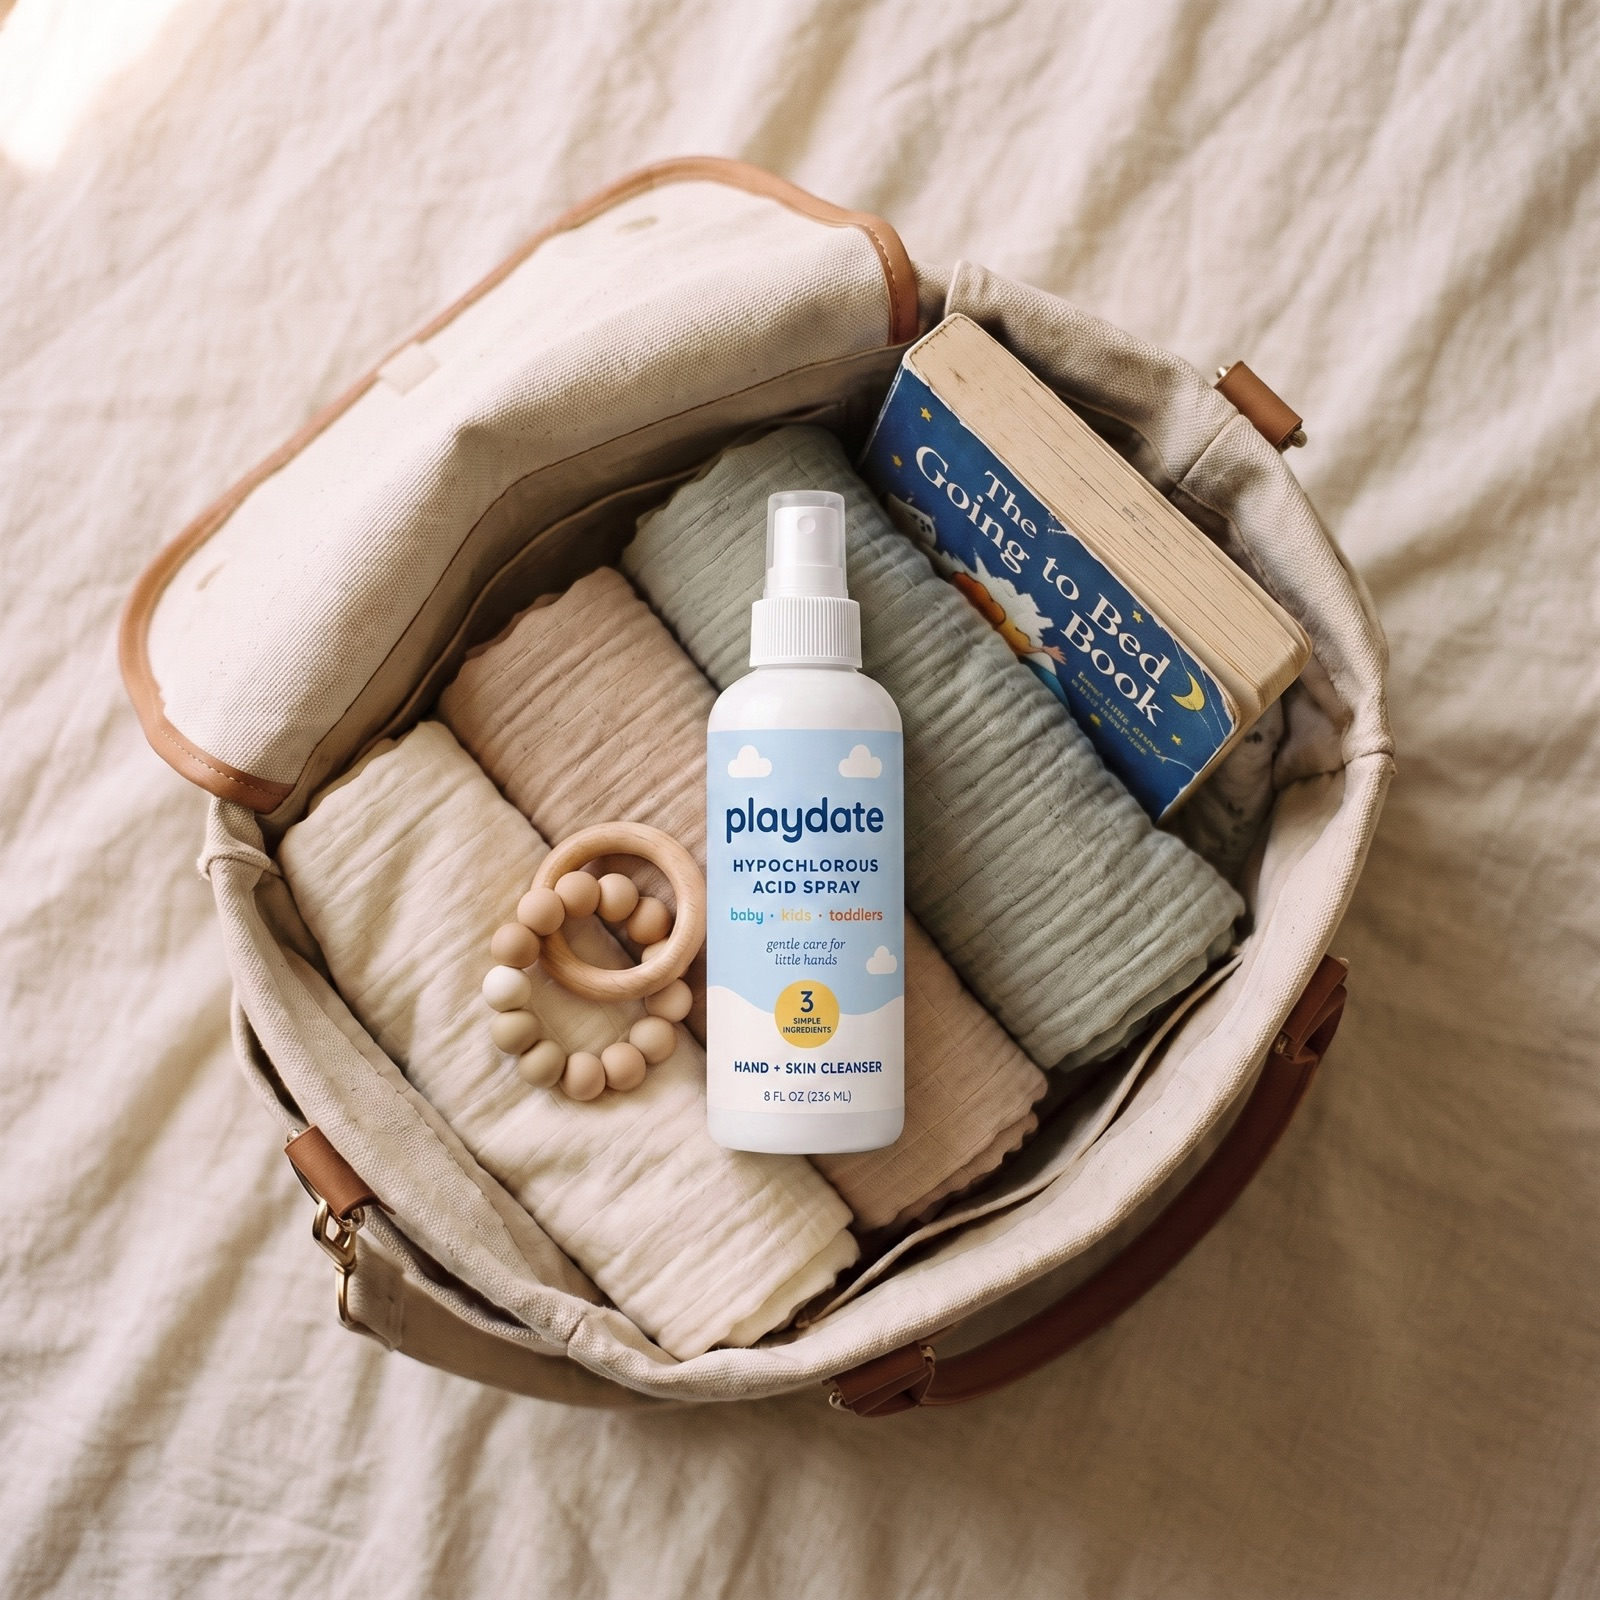
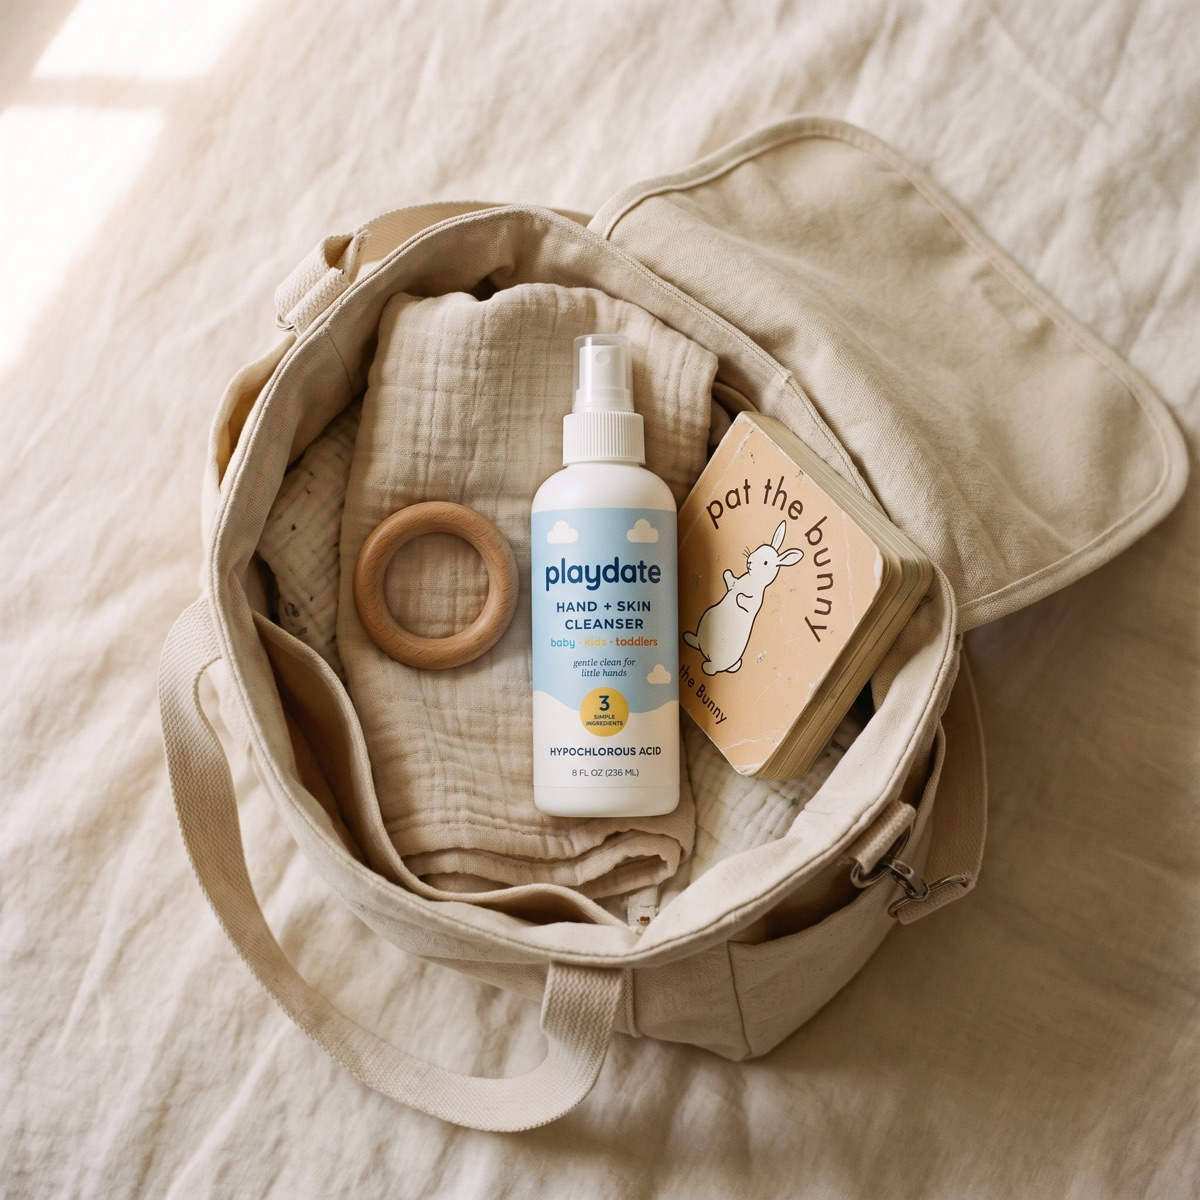
Use-case grid: fill all 6 tiles with matching photos from Images-blue
- Add after-playground, before-snacks, grocery-run, restaurant and
  after-daycare photos (the 3 former text-only cards now use real images,
  matching the new files added to Images-blue)
- Swap in the updated diaper-bag.png
- Verified sections 4 (Meet Playdate) and 8 (The Everyday Moment) already
  use handsbeingmisted.png / everydayproblem.png as requested - no change
  needed there

diff --git a/index.html b/index.html
@@ -207,20 +207,29 @@
         </div>
         <div class="usecases">
           <figure class="usecase">
-            <img src="assets/images/diaper-bag.jpg" alt="The Playdate bottle tucked into a diaper bag with swaddles and a board book." width="1600" height="1600" loading="lazy">
+            <img src="assets/images/diaper-bag.jpg" alt="The Playdate bottle tucked into a diaper bag with a swaddle, teether and board book." width="1200" height="1200" loading="lazy">
             <span>In the diaper bag</span>
           </figure>
           <figure class="usecase">
-            <img src="assets/images/hero.jpg" alt="A parent misting a toddler's hands after outdoor play." width="1600" height="1289" loading="lazy">
+            <img src="assets/images/after-playground.jpg" alt="A parent misting a toddler's hands at the playground." width="1200" height="1200" loading="lazy">
             <span>After the playground</span>
           </figure>
           <figure class="usecase">
-            <img src="assets/images/hands-being-misted.jpg" alt="A child's hands being misted before a snack." width="1600" height="1600" loading="lazy">
+            <img src="assets/images/before-snacks.jpg" alt="A parent misting a toddler's hands before a berries-and-crackers snack outside." width="1200" height="1200" loading="lazy">
             <span>Before snacks</span>
           </figure>
-          <figure class="usecase usecase--text"><span>Following a grocery run</span></figure>
-          <figure class="usecase usecase--text"><span>At restaurants &amp; during travel</span></figure>
-          <figure class="usecase usecase--text"><span>After daycare</span></figure>
+          <figure class="usecase">
+            <img src="assets/images/grocery-run.jpg" alt="A parent misting a toddler's hands in a shopping cart during a grocery run." width="1200" height="1200" loading="lazy">
+            <span>Following a grocery run</span>
+          </figure>
+          <figure class="usecase">
+            <img src="assets/images/restaurant.jpg" alt="A parent misting a toddler's hands at a café table." width="1200" height="1200" loading="lazy">
+            <span>At restaurants &amp; during travel</span>
+          </figure>
+          <figure class="usecase">
+            <img src="assets/images/after-daycare.jpg" alt="A parent misting a toddler's hands in the car after pickup." width="1200" height="1200" loading="lazy">
+            <span>After daycare</span>
+          </figure>
         </div>
       </div>
     </section>
